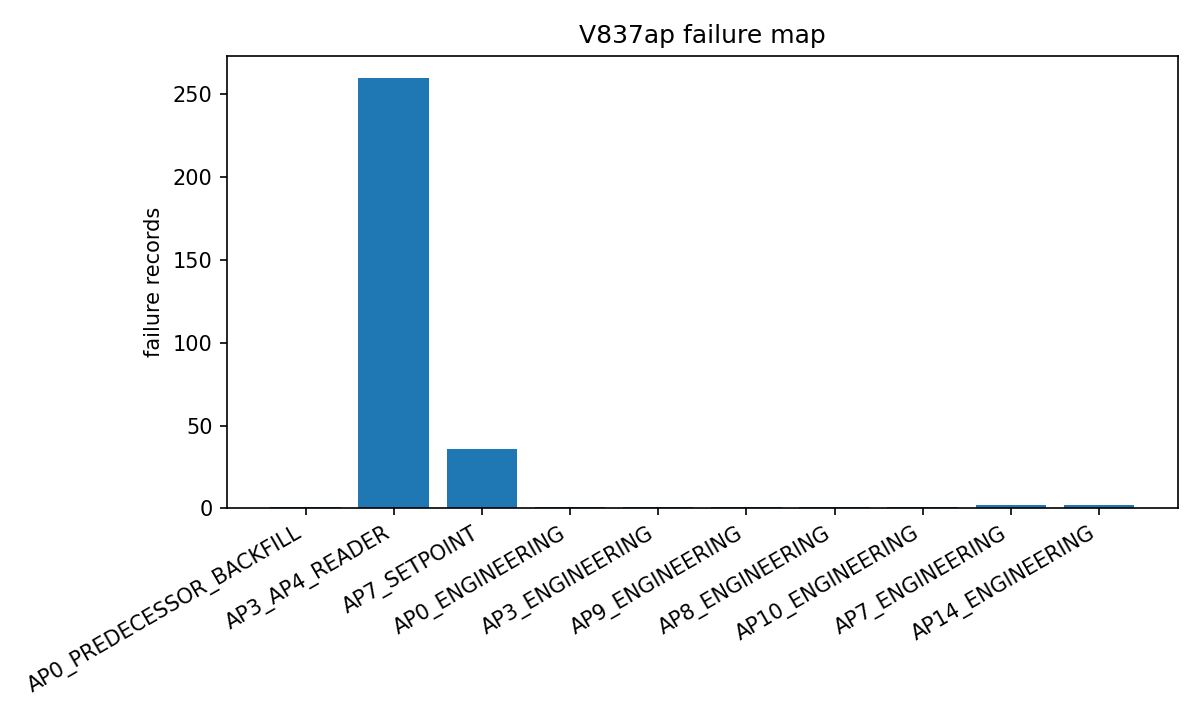
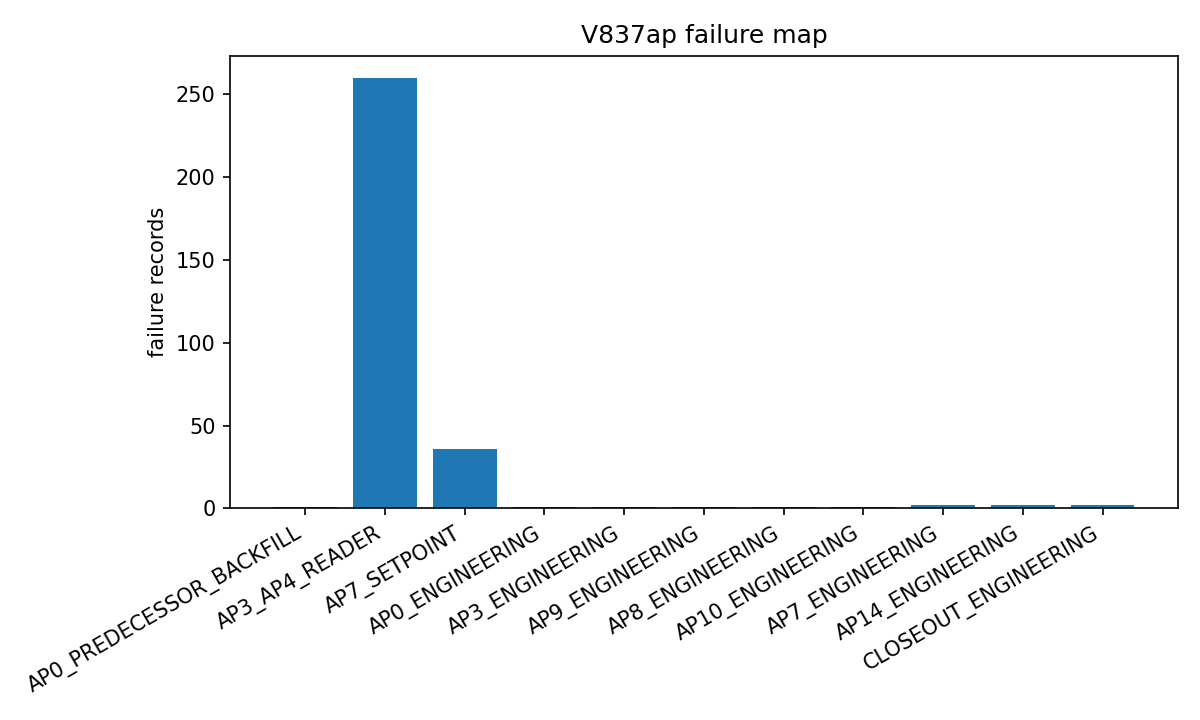
Finalize V837ap failure memory and freeze aliases

diff --git a/experiments/v837_primitive_invention/v837ap/engineering_failures.py b/experiments/v837_primitive_invention/v837ap/engineering_failures.py
@@ -72,7 +72,14 @@ FIXED = (
         "CLOSEOUT_ENGINEERING",
         "ACTIVE_VALIDATOR_CSV_NEWLINE_PORTABILITY",
         "The V836 integrity manifest froze registry/experiments.csv using CRLF bytes while Git stores the same committed CSV content with LF bytes, causing the active validator to fail on this worktree.",
-        "Made only the CSV manifest comparison newline-portable by hashing the CRLF-normalized form against the unchanged frozen SHA; all non-CSV preserved artifacts remain exact-byte checks.",
+        "Made frozen text-artifact SHA validation line-ending portable by accepting only an exact LF or CRLF canonical form that matches the unchanged expected SHA; binary artifacts remain exact-byte only.",
+    ),
+    (
+        "V837ap-ENG-ACTIVE-VALIDATOR-GATE-NEWLINES",
+        "CLOSEOUT_ENGINEERING",
+        "ACTIVE_VALIDATOR_GATE_NEWLINE_PORTABILITY",
+        "After the CSV portability repair, the active validator reached the historical V837 frozen gate and failed for the same CRLF-versus-LF byte-normalization reason even though the parsed gate content was unchanged.",
+        "Applied the same frozen-text line-ending-compatible SHA check to the historical V837 gate and immutable text-artifact comparisons; no gate, threshold, seed range, or scientific result was changed.",
     ),
 )
 

diff --git a/docs/V837_FAILURE_LEDGER.md b/docs/V837_FAILURE_LEDGER.md
@@ -10666,3 +10666,23 @@ Append-only research memory. Older failure entries and measurements must never b
 - **Interpretation:** The null held-out closure path referenced time.perf_counter for resource accounting before importing time and initializing the stage timer.
 - **Do not repeat unchanged:** True
 - **Artifacts:** experiments/v837_primitive_invention/v837ap/raw/failure_ledger.json
+
+## V837ap-ENG-ACTIVE-VALIDATOR-CSV-NEWLINES — V837ap / CLOSEOUT_ENGINEERING
+
+- **Type:** ENGINEERING_FAILURE / FIXED_BEFORE_RELEVANT_SCIENTIFIC_DECISION
+- **Family / organism:** None / None
+- **Geometry:** k=None semantic_dim=1 None None
+- **Failed conditions:** ['ACTIVE_VALIDATOR_CSV_NEWLINE_PORTABILITY']
+- **Interpretation:** The V836 integrity manifest froze registry/experiments.csv using CRLF bytes while Git stores the same committed CSV content with LF bytes, causing the active validator to fail on this worktree.
+- **Do not repeat unchanged:** True
+- **Artifacts:** experiments/v837_primitive_invention/v837ap/raw/failure_ledger.json
+
+## V837ap-ENG-ACTIVE-VALIDATOR-GATE-NEWLINES — V837ap / CLOSEOUT_ENGINEERING
+
+- **Type:** ENGINEERING_FAILURE / FIXED_BEFORE_RELEVANT_SCIENTIFIC_DECISION
+- **Family / organism:** None / None
+- **Geometry:** k=None semantic_dim=1 None None
+- **Failed conditions:** ['ACTIVE_VALIDATOR_GATE_NEWLINE_PORTABILITY']
+- **Interpretation:** After the CSV portability repair, the active validator reached the historical V837 frozen gate and failed for the same CRLF-versus-LF byte-normalization reason even though the parsed gate content was unchanged.
+- **Do not repeat unchanged:** True
+- **Artifacts:** experiments/v837_primitive_invention/v837ap/raw/failure_ledger.json

diff --git a/experiments/v837_primitive_invention/v837ap/FAILURE_ANALYSIS.md b/experiments/v837_primitive_invention/v837ap/FAILURE_ANALYSIS.md
@@ -20,6 +20,7 @@ Machine-readable candidate, invalid-configuration, calibration, and engineering 
 - `AP7_SETPOINT`: 36
 - `AP8_ENGINEERING`: 1
 - `AP9_ENGINEERING`: 1
+- `CLOSEOUT_ENGINEERING`: 2
 
 Final diagnosis: `DECODABLE_LOW_DIMENSIONAL_STATE_NOT_CAUSALLY_CLOSED`.
 

diff --git a/docs/V837_GLOBAL_COORDINATE_OR_NONLINEAR_CAUSAL_STATE_REPORT.md b/docs/V837_GLOBAL_COORDINATE_OR_NONLINEAR_CAUSAL_STATE_REPORT.md
@@ -30,7 +30,7 @@ The historical validation source was reused only post-freeze. The untouched fres
 - Primitives promoted: 0
 - V838 started: false
 - Required plots generated: 22
-- Failure-memory entries: 306
+- Failure-memory entries: 308
 
 ## Next program
 
